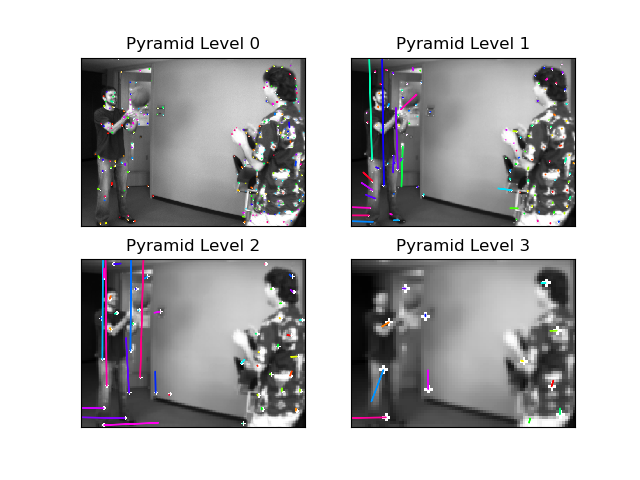
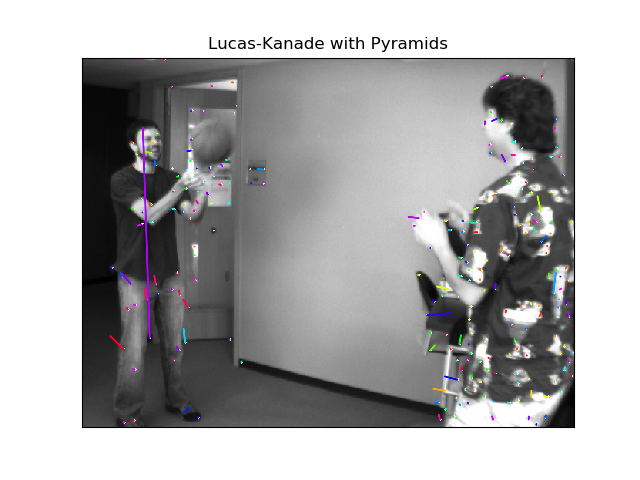
Completely reworked pyramid implementation

diff --git a/PA2/OpticalFlow/LucasKanade.py b/PA2/OpticalFlow/LucasKanade.py
@@ -12,13 +12,14 @@ features were calculated to have moved from to where they are now. The white dot
 should be considered as the head of the arrows. Since the ball does not have many corners, it did
 not get a lot of points returned for it by goodFeaturesToTrack. I experimented a lot on different
 feature finding parameters to get a decenet amount to show up on the ball and hands.
-    I adapted my code to have parameters for whether it is using a pyramid, the level on the 
-pyramid, and the total amount of levels. I apply the same method as before on each level and print 
-them side by side. I use a heuristical approach to dynamically subplot the images based on the amount
-of levels in the pyramid. I found that each level increase in the pyramid made my output look 
-worse. The kernel size did not appear to affect my outputs that much. I setteled on showing the
-window size and max levels that I did because I thought it showed the progression of pyramid levels
-the best.
+    I adapted my code to have parameters for whether it is using a pyramid and the total amount of 
+levels. I apply the LK algorithm on each level and add the results to the u adn v matrices. I 
+found that each level increase in the pyramid made my output look worse. The kernel size did not 
+appear to affect my outputs that much. I setteled on showing the window size and max levels that I 
+did because I thought it showed the progression of pyramid levels the best. The lines on the ball
+get bigger which is good because it should be ht ebiggest movement between the frames and the point
+of the pyramids to find the bigger motions. There is a problem with some of the key points getting 
+much longer lines than they should based on some problem in the applied algorithm.
     I provided the images in this directory to show for security in case this is somhow unable to 
 run on your machine.
 '''
@@ -28,41 +29,64 @@ numpy.seterr(divide='ignore', invalid='ignore')
 
 # Input: Two sequenced images, boolean pyramid use, level index, and max levels
 # Prints the second image with colored velocity vectors at key points
-def lucasKanade(img1, img2, pyr_mode=False, idx=0, retval=0):
+def lucasKanade(first, second, pyr_mode=False, maxLvl=1):
     # Parameters for GaussianBlur
     gauss_params = dict( ksize = (5, 5),
                          sigmaX = 1 )
     
     # Parameters for goodFeaturesToTrack
-    maxCorners = 250
-    feat_params = dict( maxCorners = maxCorners,
+    feat_params = dict( maxCorners = 250,
                         qualityLevel = .008,
                         minDistance = 10,
-                        blockSize = 10)
+                        blockSize = 10 )
 
-    # Calculate I_t and apply a Gaussian Blur
-    iT = img2 - img1
-    iT = cv2.GaussianBlur(iT, **gauss_params)
+    # Set the images for the 
+    if not pyr_mode:
+        img1 = first
+        img2 = second
 
-    # Calculate I_x and I_y and apply a Gaussian Blur
-    x1, y1 = numpy.gradient(img1)
-    x2, y2 = numpy.gradient(img2)
-    iX = (x1 + x2) // 2
-    iY = (y1 + y2) // 2
-    iX = cv2.GaussianBlur(iX, **gauss_params)
-    iY = cv2.GaussianBlur(iY, **gauss_params)
+    # Loop though every level of the input pyramid
+    for lvl in range(maxLvl):
+        # Update the pyramid level
+        if pyr_mode:
+            img1 = first[lvl * 2]
+            img2 = second[lvl * 2]
 
-    # Calculate the tensor representations in the LK formula
-    kernel = numpy.ones((5, 5)) / 25
-    tXX = cv2.filter2D(iX * iX, -1, kernel)
-    tYY = cv2.filter2D(iY * iY, -1, kernel)
-    tXY = cv2.filter2D(iX * iY, -1, kernel)
-    tXT = cv2.filter2D(iX * iT, -1, kernel)
-    tYT = cv2.filter2D(iY * iT, -1, kernel)
+        # Calculate I_t and apply a Gaussian Blur
+        iT = img2 - img1
+        iT = cv2.GaussianBlur(iT, **gauss_params)
+
+        # Calculate I_x and I_y and apply a Gaussian Blur
+        x1, y1 = numpy.gradient(img1)
+        x2, y2 = numpy.gradient(img2)
+        iX = (x1 + x2) // 2
+        iY = (y1 + y2) // 2
+        iX = cv2.GaussianBlur(iX, **gauss_params)
+        iY = cv2.GaussianBlur(iY, **gauss_params)
+
+        # Calculate the tensor representations in the LK formula
+        kernel = numpy.ones((5, 5)) / 25
+        tXX = cv2.filter2D(iX * iX, -1, kernel)
+        tYY = cv2.filter2D(iY * iY, -1, kernel)
+        tXY = cv2.filter2D(iX * iY, -1, kernel)
+        tXT = cv2.filter2D(iX * iT, -1, kernel)
+        tYT = cv2.filter2D(iY * iT, -1, kernel)
+        
+        # Calculate the u and v values for change in x and y positions
+        if lvl == 0:
+            u = ((tYT * tXY) - (tXT * tYY)) / ((tXX * tYY) - (tXY ** 2))
+            v = ((tXT * tXY) - (tYT * tXX)) / ((tXX * tYY) - (tXY ** 2))
+        else:
+            u1 = ((tYT * tXY) - (tXT * tYY)) / ((tXX * tYY) - (tXY ** 2))
+            v1 = ((tXT * tXY) - (tYT * tXX)) / ((tXX * tYY) - (tXY ** 2))
+            for i in range(u1.shape[0]):
+                for j in range(u1.shape[1]):
+                    u[i * 2 ** lvl][j * 2 ** lvl] += u1[i][j]
+                    v[i * 2 ** lvl][j * 2 ** lvl] += v1[i][j]
     
-    # Calculate the u and v values for change in x and y positions
-    u = ((tYT * tXY) - (tXT * tYY)) / ((tXX * tYY) - (tXY ** 2))
-    v = ((tXT * tXY) - (tYT * tXX)) / ((tXX * tYY) - (tXY ** 2))
+    # Reset the second image to show
+    if pyr_mode:
+        img2 = second[0]
 
     # Find corners in the second image
     corners2 = cv2.goodFeaturesToTrack(img2, **feat_params)
@@ -74,27 +98,14 @@ def lucasKanade(img1, img2, pyr_mode=False, idx=0, retval=0):
         corner_pts2.append((int(x), int(y)))
         cv2.circle(img2, (x, y), 1, 255, -1)
 
-    # Check if plotting a pyramid image
-    if pyr_mode:
-        # Find appropriate sizes for rows and cols
-        if retval < 3:
-            rows = 1
-            cols = retval + 1
-        else:
-            rows = 2
-            if retval == 3:
-                cols = 2
-            else:
-                cols = 3
+    # Plot the second image
+    pyplot.subplot(111), pyplot.imshow(img2, cmap='gray')
 
-        # Calculate the subplot number
-        sub = rows * 100 + cols * 10 + idx + 1
-
-        # Plot the pyramid image
-        pyplot.subplot(sub), pyplot.imshow(img2, cmap='gray'), pyplot.title('Pyramid Level ' + str(idx))
+    # Adjust the title based on if pyramids are used
+    if not pyr_mode:
+        pyplot.title('Lucas-Kanade')
     else:
-        # Plot the second image
-        pyplot.subplot(111), pyplot.imshow(img2, cmap='gray'), pyplot.title('Lucas-Kanade')
+        pyplot.title('Lucas-Kanade with Pyramids')
 
     # Take off the x and y ticks
     pyplot.xticks([]), pyplot.yticks([])
@@ -111,27 +122,24 @@ def lucasKanade(img1, img2, pyr_mode=False, idx=0, retval=0):
         else:
             pyplot.arrow(x, y, u[y][x], v[y][x], color=color)
 
+    # Show the images
+    pyplot.show()
+
+# Parameters for making a pyramid
+kSize = 9
+pyr_params = dict( winSize = (kSize, kSize),
+                   maxLevel = 4 )
+
 # Open the images
 img1 = cv2.imread("./basketball1.png", cv2.IMREAD_GRAYSCALE)
 img2 = cv2.imread("./basketball2.png", cv2.IMREAD_GRAYSCALE)
-
-# Apply the Lucas-Kanade algorithm to the images
-lucasKanade(img1, img2)
-
-# Show the image
-pyplot.show()
-
-pyr_params = dict( winSize = (3, 3),
-                maxLevel = 3 )
 
 # Create a pyramid of the image
 retval, pyr1 = cv2.buildOpticalFlowPyramid(img1, **pyr_params)
 retval, pyr2 = cv2.buildOpticalFlowPyramid(img2, **pyr_params)
 
-# Apply Lucas-Kanade to all of the pyramid levels
-for i in range(retval + 1):
-    idx = i * 2
-    lucasKanade(pyr1[idx], pyr2[idx], True, i, retval)
+# Apply the Lucas-Kanade algorithm to the images
+lucasKanade(img1, img2)
 
-# Show the images
-pyplot.show()
+# Apply the Lucas_kanade algorithm to the pyramids
+lucasKanade(pyr1, pyr2, True, retval + 1)
